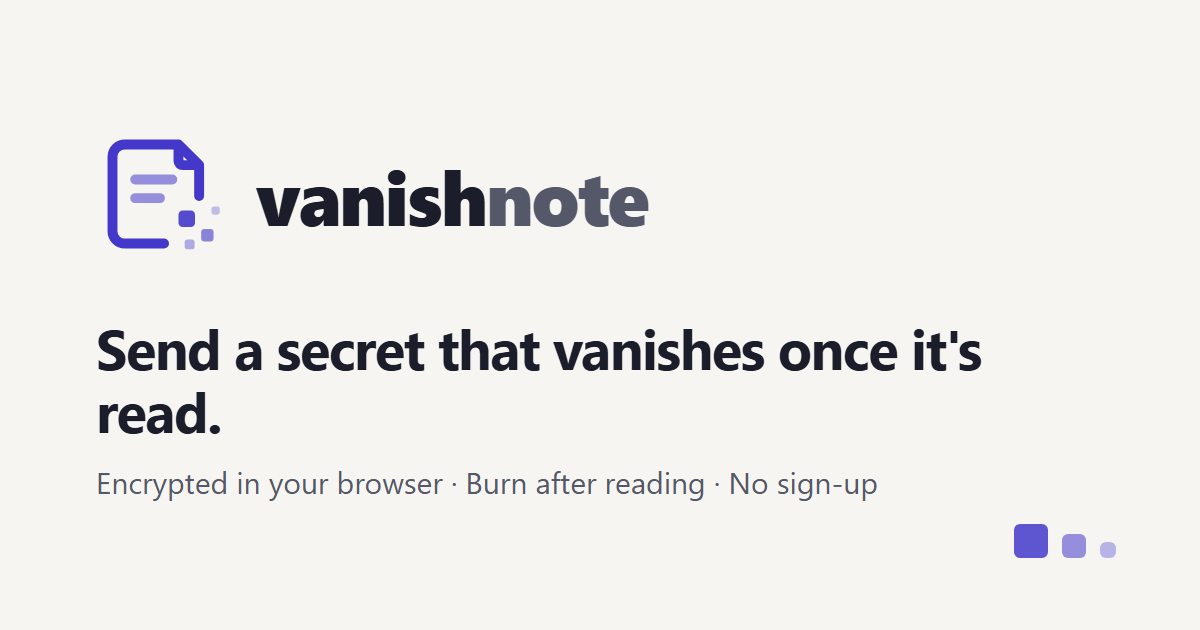
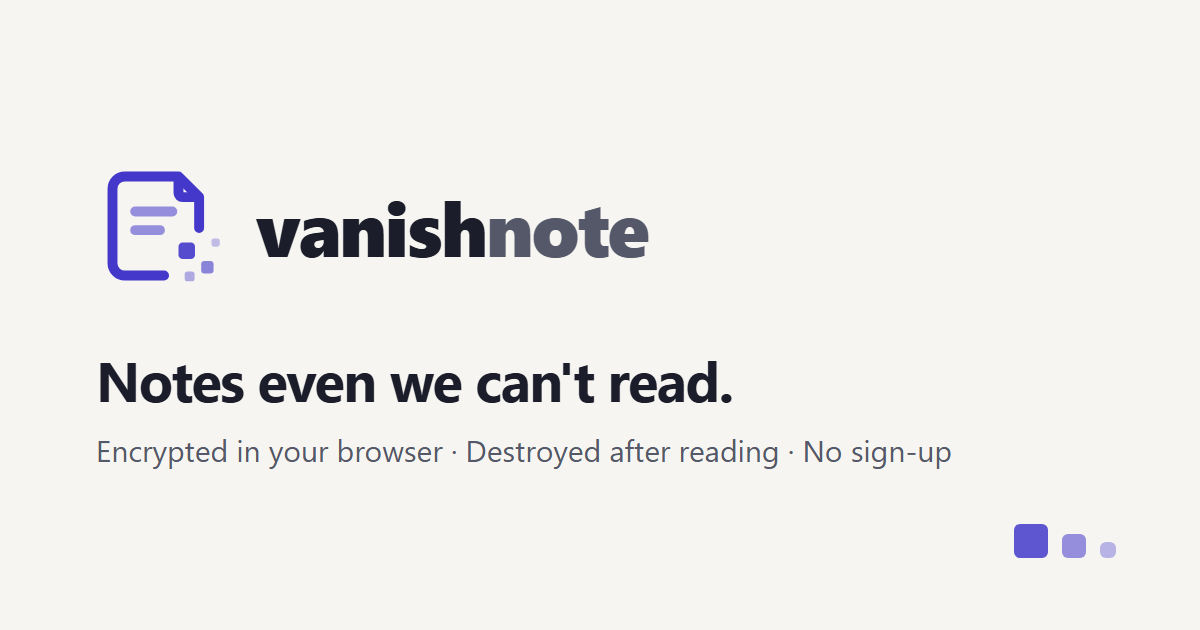
Put "we can't read your notes" at the centre of the UI
- Home hero leads with "Notes even we can't read"; vanishing is the
  supporting line
- Live "What our server will receive" panel in the composers: the text
  is really encrypted (throwaway key) as you type, showing only noise
- "Readable at both ends, scrambled in the middle" diagram and a link
  anatomy showing the key after # never reaches the server
- Zero-knowledge badge on the composer, note page, request page and the
  dashboard dialog; key explanation on the link-ready panel
- Security and How it works pages lead with the same idea; new social card

Changed region(s): [[0.0617, 0.5127, 0.8325, 0.7841], [0.2158, 0.2714, 0.555, 0.4222], [0.0617, 0.2111, 0.185, 0.4524]]

diff --git a/src/scripts/cipher-preview.ts b/src/scripts/cipher-preview.ts
@@ -1,0 +1,40 @@
+import { NoteTooLargeError, sealNote } from '../lib/crypto';
+
+/**
+ * Show, live, what the server receives for the text being typed: real AES-256-GCM output under a
+ * throwaway key (the note itself is sealed again, with a new key, when it's created). Purely a
+ * demonstration that the server only ever gets noise.
+ */
+export function initCipherPreview(input: HTMLTextAreaElement, output: HTMLElement): void {
+  const placeholder = output.textContent ?? '';
+  let timer: number | undefined;
+  let latest = 0;
+
+  const render = async () => {
+    const run = ++latest;
+    const text = input.value;
+    if (text === '') {
+      output.textContent = placeholder;
+      return;
+    }
+    try {
+      const { payload } = await sealNote(text);
+      if (run !== latest) return; // a newer keystroke already started
+      const cipher = payload.ciphertext;
+      output.textContent = cipher.length > 240 ? `${cipher.slice(0, 240)}…` : cipher;
+    } catch (err) {
+      if (run === latest) output.textContent = err instanceof NoteTooLargeError ? 'Too long to send.' : placeholder;
+    }
+  };
+
+  input.addEventListener('input', () => {
+    window.clearTimeout(timer);
+    timer = window.setTimeout(() => void render(), 120);
+  });
+  input.form?.addEventListener('reset', () => {
+    window.setTimeout(() => {
+      latest++;
+      output.textContent = placeholder;
+    });
+  });
+}

diff --git a/src/scripts/app/create-note.ts b/src/scripts/app/create-note.ts
@@ -1,5 +1,6 @@
 import { sealNote, utf8ByteLength } from '../../lib/crypto';
 import { MAX_NOTE_BYTES } from '../../lib/limits';
+import { initCipherPreview } from '../cipher-preview';
 import { postForm, postJson } from '../http-client';
 import { $, cooldown, formatBytes, guardUnload, initCopyButtons, initShareButtons, showState } from '../ui';
 
@@ -72,6 +73,8 @@ export function initCreateNoteDialog(): void {
   };
   initCopyButtons(dialog, saved);
   initShareButtons(dialog, 'I sent you a private note:', saved);
+
+  initCipherPreview(text, $('[data-cipher-output]', dialog));
 
   text.addEventListener('input', () => {
     const bytes = utf8ByteLength(text.value);

diff --git a/src/scripts/create.ts b/src/scripts/create.ts
@@ -1,6 +1,7 @@
 import { encryptNote, utf8ByteLength } from '../lib/crypto';
 import { MAX_NOTE_BYTES, type ExpiryOption } from '../lib/limits';
 import { createNote } from './api-client';
+import { initCipherPreview } from './cipher-preview';
 import {
   $,
   cooldown,
@@ -42,6 +43,8 @@ export function initCreateForm(): void {
     errorBox.hidden = false;
     focus?.focus();
   };
+
+  initCipherPreview(text, $('[data-cipher-output]', root));
 
   text.addEventListener('input', () => {
     const bytes = utf8ByteLength(text.value);
